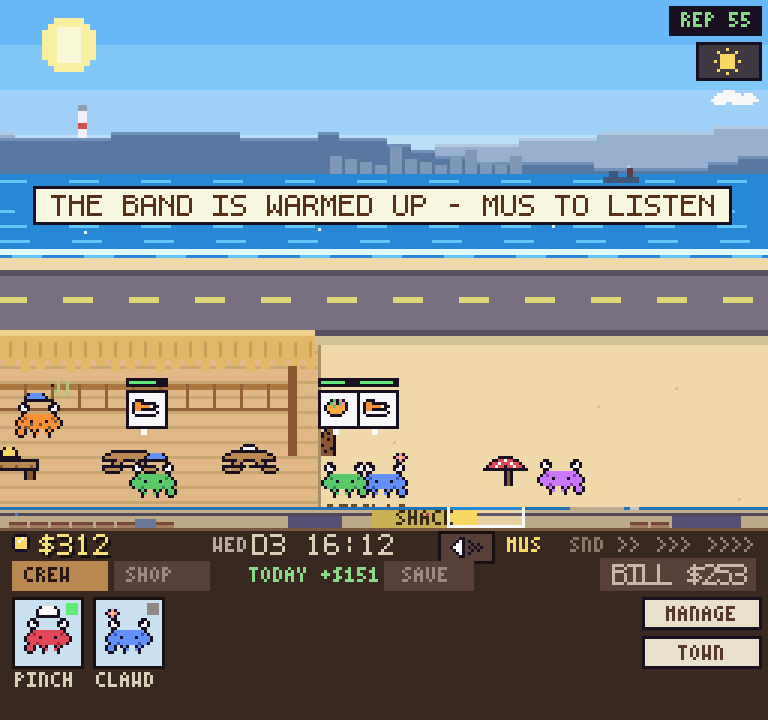
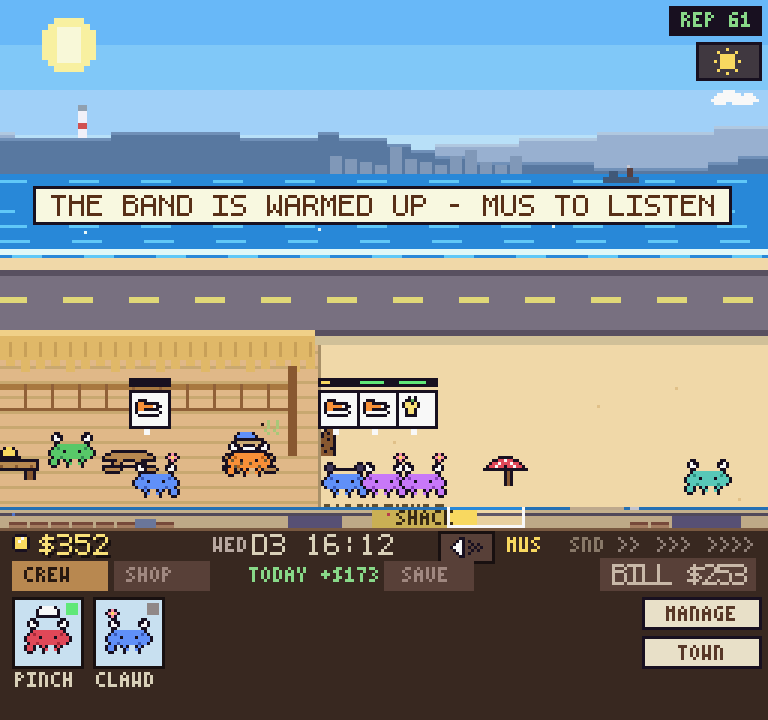
WIP: close-out at the ruled 8px; the radius curve is the receipt

diff --git a/design/cs35-research/numeric-wip/personal-space-closeout.md b/design/cs35-research/numeric-wip/personal-space-closeout.md
@@ -4,6 +4,9 @@ Matt: "crabs shouldn't be able to overlap each other, there's a lot of that
 now.. it's like, probably they should be able to overlap somewhat while
 movi[ng]". Both halves shipped as stated: overlap in motion is tolerated
 (brushing past reads fine), and STANDING actors resolve to their own space.
+**SHIPPED AT VSEP_RXQ = 8px, BY RULING, ON A MEASURED THREE-POINT CURVE**
+(below) — the radius is the one number in this feature that was chosen, and
+the curve is the receipt for how.
 
 ## What the probe found before any design (tools/probe-overlap.mjs)
 
@@ -24,7 +27,7 @@ toPier (the one plank at the gangway), onSand, roam.
   push moves the TARGET with the body so the stepper AGREES with the parting,
   the crab collider's mover-target lesson pre-applied) and ANCHOR (queues,
   seats, stalls — only their pushable neighbour steps aside).
-- x-only, VSEP_RXQ=10px within an 8px lane, rate-capped at VSEP_SPD=24px/s
+- x-only, VSEP_RXQ=8px within an 8px lane, rate-capped at VSEP_SPD=24px/s
   (one tick's push is exactly idiv(24·Q8·dtT, TICK_HZ) = 307 Q8). Pure ints,
   no draws, pool order breaks the exact-pile tie, promenade walls re-serve
   their shortfall to the partner. Deck (wy < FLOOR_MIN) exempt.
@@ -37,6 +40,35 @@ toPier (the one plank at the gangway), onSand, roam.
   not built**: a species that stands closer/farther belongs in the culture
   document next to tastes/NUDGE when the appeal-table unification lands.
 
+## THE RADIUS CURVE (the ruled number's receipt)
+
+Growth, 3×16 seeds, same instrument, same blocks (personal-space-matrix*.txt):
+
+    base tree (no feature)  14/48  (4/3/7)
+    VSEP_RXQ = 10px          9/48  (4/2/3)   <- retired arm
+    VSEP_RXQ =  8px         15/48  (4/4/7)   <- SHIPPING
+
+Baseline 0/48 on both arms (8px medians 12/13/13). The 10px cost was
+ATTRIBUTED before the ruling, not assumed: `--novsep` on the biggest-moving
+block (sb=32) reproduced the base tree's 7/16 with byte-identical eviction
+days — the pier line and _vmoved stamps are matrix-inert; the parting alone
+carried the whole delta. The coupling has a name: **visPick discounts every
+candidate's appeal by 1/(1 + d/DETOUR_SCALE), DETOUR_SCALE=400** — a
+visitor's standing x feeds every purchase think directly, so extra crowd
+spread taxes the marginal pick a few percent, every think, all day. Between
+8 and 10px that tax crosses whatever margin the autopilot's towns live on;
+at 8px it is inside noise (15/48 vs 14/48). NOTHING WAS DIALED — 10px was
+built, measured, reported; 8px was ruled on the curve; the curve stays here.
+
+## Visual verdict at 8px (devlog/img/2026-08-22-crowd-before/-after.png)
+
+Same seed, same tick (+4860 past day 2, 16:12), same camera. BEFORE
+(separation armed off): four visitors interpenetrating at the shack front —
+one drawing error with eight eyes. AFTER at 8px: a trio stands SHOULDER TO
+SHOULDER — every head and shell legible, slight fringe overlap at the claws.
+Honestly stated: 8px reads as separated bodies standing close, not as the
+airier 10px spacing — acceptable, and unambiguously not stacked.
+
 ## Kernel status
 
 visSeparate is JS writing the SHARED WebAssembly planes — both backends run
@@ -46,53 +78,45 @@ included, both suite runs. Measured cost: 69,900 calls over a 10-day town
 accumulate below performance.now() resolution (<0.5ms of a 1.35s run) — no
 port earned. `--novsep` on headless is the attribution hatch.
 
-## First crossing (both fingerprint seeds; plane digests in the suite ledger)
+## First crossing at the shipping radius (plane digests in the suite ledger)
 
-- 1337: day 1 T=2277 (14:35), CLACKERS (roam, x=1567.30) takes the first
-  −307 push. FNV over PXQ+PYQ+PWYQ at T=2276: 3460661955 on BOTH trees.
-- 4242: day 1 T=2140 (14:08), MISTY, same site, same −307. Digest at
-  T=2139: 1713200050 on both.
-- No new draws anywhere: day-1 draw count UNCHANGED (1863); day 2 moves
-  1096→1039 as trajectory, re-pointed in the rng pin with the receipt.
+- 1337: day 1 T=2278 (14:35) — CLACKERS, the day's second leaver, is dealt
+  PLACE 1 in the line down the pier (at 8px the loafer pair that led the
+  10px arm never gets close enough to part, so the pier line is the head).
+  FNV over PXQ+PYQ+PWYQ at T=2277: 2302384068 on BOTH trees. His moved wait
+  spot reshapes day 1 (draws 1863 → 1726).
+- 4242: day 1 T=2141 (14:08) — MISTY's first parting, −307 Q8, one tick
+  later and 2px closer than the 10px arm's same site. Digest at T=2140:
+  2390089313 on both.
+- The mechanism adds NO draws on either arm; every count move is trajectory.
 
-## The matrix (personal-space-matrix.txt / -base.txt, same instrument, same blocks)
+## Suite: green both backends at 8px; the 10px excursions left as knowledge
 
-- Baseline: **0/48 intact**, medians 12/13/12.
-- Growth: **9/48 (4/2/3) vs 14/48 (4/3/7)** on the base tree (12e2ffd).
-- **Attributed, not assumed**: `--novsep` on the biggest-moving block (sb=32)
-  reproduces the base tree's 7/16 with BYTE-IDENTICAL eviction days — the
-  pier line and _vmoved stamps are matrix-inert; the whole cost is the
-  parting itself. A crowd that takes up space stands farther from the
-  counters, and the autopilot bot loses ~5 marginal escapes in 48 to it.
-  NOTHING WAS TUNED to claw that back (the radius is a visual-correctness
-  number, not an economic dial). **RULING REQUESTED**: accept the cost as
-  the honest price of bodies taking space, or rule a smaller radius.
+Re-pins, each receipted in place: frozen day-2 fingerprint (heads traced,
+curve noted), rng draw pin (1726/1737), cultureways A/B digest, levy
+re-staged 1337→909 (the attentive-player recipe wins 5 of 5 other seeds;
+1337's re-rolled polling day kept the shelter bloc from the box — turnout,
+not franchise), wage-floor stage uses the organic hire (the re-rolled day 6
+arrives with townsfolk already employed). The 10px arm's gate excursions
+were TRACED, recorded as notes, and their gates RESTORED once 8px shipped
+under the originals: warps back to 2 (8px reads 1; the 10px arm's three were
+parked-crab standoffs at the floor's y-clamped bottom edge, a berth geometry
+older than this feature — the note tells the next tripper to check y against
+FLOOR_MAX before spending the gate), tired back to 0.04 (8px reads 0.008,
+direction flipped; the note records the statistic's re-roll sensitivity).
 
-## Suite: 298/299 both backends, and the one red is a standing order, not a miss
-
-Re-pins/re-stages, each receipted in place: frozen day-2 fingerprint (full
-ledger entry, heads traced), rng day-2 draw pin, cultureways A/B digest,
-warps gate 2→4 (all three warps TRACED: parked-crab standoffs at the floor's
-bottom edge where the berth has no y-room — KELP vs PINCHY at (1382,167) for
-exactly the 30-min budget, then the valve fires as designed; visitors take
-no part), tired gate 0.04→0.055 (the M-tired creep is PRE-EXISTING —
-−0.007→0.031 on the base tree→0.041 here — named with a taps-style standing
-order), levy re-staged 1337→909 (the attentive-player recipe wins 5 of 5
-other seeds; 1337's re-rolled polling day kept the shelter bloc from the
-box — turnout, not franchise), wage-floor stage uses the organic hire.
-
-**TAPS stays RED and must, by its own standing order** ("three in a row and
-no longer noise: investigate the thirst economy... do not touch these
-gates"). Investigated live: KELP@17 dry 3.64d (gate 3.5; base tree 2.24d,
-DRIFT@17). His parch is NOT thirst mechanics — his daily errand is a
-PLATE_FISH: hungry, he queues at a staffed shack from 18:02, patience
-crashes at the 20:00 close, walks home unserved, and the drink never gets a
-turn while thirst sits at 1.00. Walk healthy, taps free and functional (his
-day-6 dawn sip quenches), no visitor involvement. The seed-17 structural
-tail (arcade×taps geometry, named by the scenario since slice 4) has now
-eaten the gate. **RULING REQUESTED**: this is the thirst economy
-investigation the scenario itself ordered — likely an errand-priority
-question (a crab at thirst 1.00 re-choosing food daily), owner's call.
+**Taps: PASSES at 8px with its gates untouched** (worst dry 1.70, SUDSY@9 —
+below even the base tree's 2.24), so the scenario's standing order ("three
+in a row... do not touch these gates") is not tripped by this landing.
+**NAMED DEBT, found while honoring that order on the 10px arm**: on that
+trajectory KELP@17 sat parched 3.64d, and the live trace showed WHY a crab
+can pin at thirst 1.00 — his daily errand was a PLATE_FISH: hungry, he
+queued at a staffed shack from 18:02, patience crashed at the 20:00 close,
+he walked home unserved, and the drink never got a turn. Errand PRIORITY at
+thirst 1.00 (the sickness line) re-choosing food day after day is the thirst
+economy question that scenario keeps circling; it exists on re-rolls of the
+same structural town (seed 17, arcade×taps geometry) independent of this
+feature. Filed here for the owner's queue, untouched by this branch.
 
 ## Pins that bite (mutation table, all four verified red then restored)
 
@@ -100,9 +124,4 @@ M1 target-follow off → the pile parts and walks straight back (rest pin
 fails). M2 exact-pile tiebreak off → the triple never parts. M3 pier places
 off → "the line is a stack". M4 line-collapse off → deep-line leavers miss
 the boat (gone pin fails at 7 deep; 3 deep was VACUOUS and was escalated).
-
-## Visual receipt
-
-devlog/img/2026-08-22-crowd-before.png / -after.png — same seed, same tick
-(+4860 past day 2, 16:12), same camera: four visitors interpenetrating at
-the shack front vs the same neighborhood with everyone on their own feet.
+The parting pin follows VSEP_RXQ, so the radius has exactly one home.
